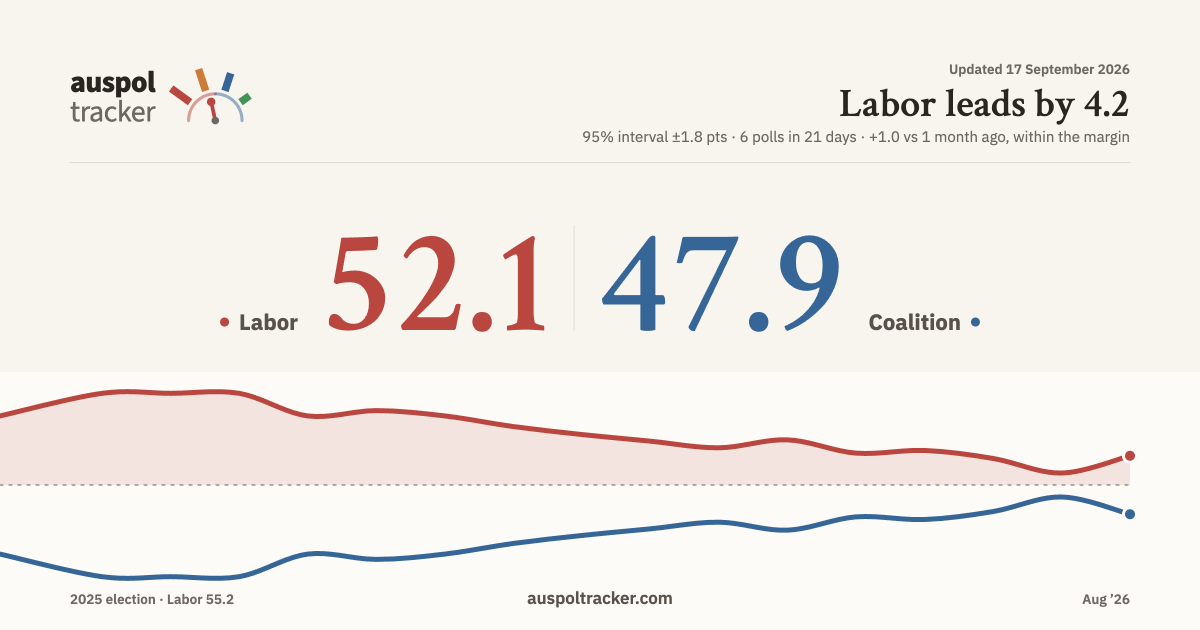
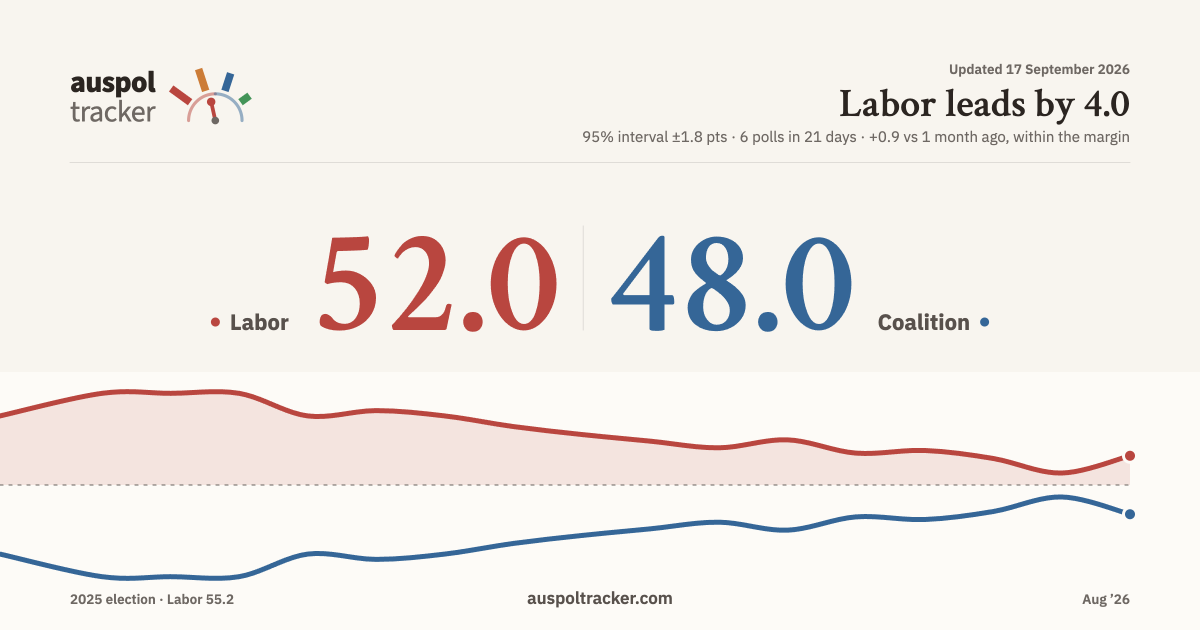
Redraw the share card after the sample-efficiency reweight
Card now carries the reweighted figures (ALP 52.0) that landed with the
8 Sep YouGov backfill; og:image cache-bust restamped.

Changed region(s): [[0.4933, 0.3619, 0.8325, 0.5429], [0.185, 0.3619, 0.4625, 0.5429], [0.925, 0.1508, 0.9558, 0.181]]

diff --git a/index.html b/index.html
@@ -27,7 +27,7 @@
   <meta property="og:site_name" content="auspoltracker.com">
   <meta property="og:locale" content="en_AU">
   <meta property="og:url" content="https://auspoltracker.com/">
-  <meta property="og:image" content="https://auspoltracker.com/assets/auspol-card.png?v=2026-09-17-2a6d2964">
+  <meta property="og:image" content="https://auspoltracker.com/assets/auspol-card.png?v=2026-09-17-2ef24c22">
   <meta property="og:image:width" content="1200">
   <meta property="og:image:height" content="630">
   <meta property="og:image:alt" content="auspol tracker: Labor 52.0, Coalition 48.0 two-party preferred, ±1.8 points, updated 14 September 2026, with the trend since the 2025 election">
